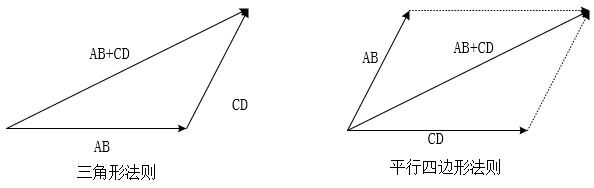
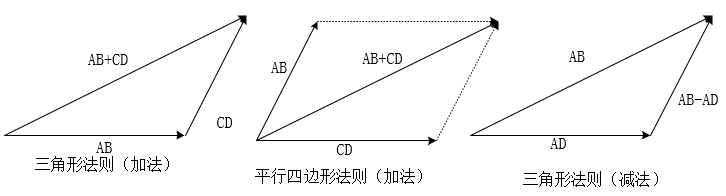
更新

diff --git a/Doc_AI/数学基础/高中数学.md b/Doc_AI/数学基础/高中数学.md
@@ -282,19 +282,11 @@ $\left | vec{a} \right |$
 
   ![xl_1](高中数学_img/xl_1.png)
 
-三角形法则和平行四边形法则，本质上可以相互转化
+三角形法则和平行四边形法则，本质上可以相互转化（注意上面的向量$\vec{AB}$不是没有箭头，是画图工具不能输入箭头）
 
-**2.**减法
+**2.**减法：两个向量的差，即一个加上另一个向量的相反向量，$\vec{a}-\vec{b} = \vec{a}+(-\vec{b})$。使用三角形法则。指向性：减号后边的向量指向减号前边的向量
 
-
-
-
-
-
-
-
-
-3.数乘
+**3.**数乘：
 
 
 
